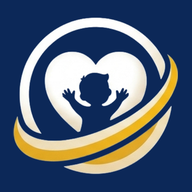
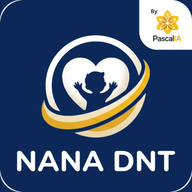
fix(nutricion): el logotipo es el lockup completo, no el emblema recortado
Me habia pasado de largo. Al quitar la insignia de PascalIA que salia cortada
en el encabezado, recorte tambien la palabra NANA DNT y deje solo el emblema.
El logotipo del aplicativo es el que entrego la Coordinacion: recuadro azul,
emblema, insignia y el nombre. Ese mismo va en todas las pantallas.

- Se elimina nana-dnt-simbolo.png y su generacion. Ya no hay dos versiones
  compitiendo: la proxima vez no hay de donde equivocarse.
- Encabezado, tarjeta del portal y acceso rapido usan nana-dnt-logo.png.
- El icono del encabezado sube de 46 a 52 px (44 en movil): lleva la palabra
  adentro y encogerlo la vuelve ilegible. Sigue cabiendo en la barra de 64 px.
- icono-180 y 192 se regeneran desde el lockup, a sangre. icono-32 tambien,
  aunque a ese tamano la palabra no se lee: es una limitacion del formato, no
  del archivo.
- El generador compone el azul debajo antes de escalar, para que al ir a
  sangre las esquinas que en el original eran transparentes queden azules.

Verificado con Chromium: el logotipo carga en el encabezado (52 px, 44 en
movil, sin desbordar a 390 px), en la tarjeta del portal y en el acceso
rapido. Las siete vistas, el pie de PascalIA, la calculadora de FTLC, los
perimetros y los 139 controles de los motores siguen pasando. 0 errores.

Claude-Session: https://claude.ai/code/session_014rewXf9nkCGvp4GxEmHCRC

diff --git a/index.html b/index.html
@@ -778,7 +778,7 @@ body {
       <div class="prog-accent" style="background: linear-gradient(90deg, #0C2858, #E1A823);"></div>
       <div class="prog-body">
         <div class="prog-top">
-          <div class="prog-icon" style="background:none;"><img src="NUTRICIÓN NANA DNT/assets/nana-dnt-simbolo.png" alt="" style="width:42px;height:42px;display:block;border-radius:10px"></div>
+          <div class="prog-icon" style="background:none;"><img src="NUTRICIÓN NANA DNT/assets/nana-dnt-logo.png" alt="" style="width:42px;height:42px;display:block;border-radius:10px"></div>
           <span class="prog-badge live">Activo</span>
         </div>
         <div class="prog-name">NANA DNT · Seguimiento Nutricional Infantil</div>
@@ -928,7 +928,7 @@ body {
       <div><div class="quick-name">Ejecución EBS · Res. 0900</div><div class="quick-sub">15 soportes · Expedientes · PISIS</div></div>
     </a>
     <a href="NUTRICIÓN NANA DNT/index.html" class="quick-card">
-      <span class="quick-icon"><img src="NUTRICIÓN NANA DNT/assets/nana-dnt-simbolo.png" alt="" style="width:26px;height:26px;display:block;border-radius:6px"></span>
+      <span class="quick-icon"><img src="NUTRICIÓN NANA DNT/assets/nana-dnt-logo.png" alt="" style="width:26px;height:26px;display:block;border-radius:6px"></span>
       <div><div class="quick-name">NANA DNT</div><div class="quick-sub">Riesgo y DNT aguda · 0-59 meses</div></div>
     </a>
     <a href="SEGUIMIENTO RECURSOS SER124DREC/Seguimiento_Recursos_SER124DREC.html" class="quick-card">

diff --git a/NUTRICIÓN NANA DNT/app/estilos.css b/NUTRICIÓN NANA DNT/app/estilos.css
@@ -118,13 +118,15 @@ a { color: var(--menta); }
   box-shadow: 0 2px 14px rgba(15,138,126,.10);
 }
 .marca { display: flex; align-items: center; gap: 12px; text-decoration: none; color: inherit; }
-/* El logotipo trae su propio fondo azul y sus esquinas redondeadas */
+/* El logotipo completo: trae su propio fondo azul y sus esquinas redondeadas.
+   Va al mayor tamaño que permite la barra de 64 px, porque lleva la palabra
+   NANA DNT dentro y encogerlo la vuelve ilegible. */
 .marca-icono {
-  width: 46px; height: 46px; flex-shrink: 0; display: block;
+  width: 52px; height: 52px; flex-shrink: 0; display: block;
   object-fit: contain;
   filter: drop-shadow(0 3px 10px rgba(12,40,88,.30));
 }
-@media (max-width: 720px) { .marca-icono { width: 40px; height: 40px; } }
+@media (max-width: 720px) { .marca-icono { width: 44px; height: 44px; } }
 .marca-txt strong { display: block; font-size: .96rem; font-weight: 700; letter-spacing: -.01em; }
 .marca-txt span   { display: block; font-size: .72rem; color: var(--texto-3); }
 .enc-sep { flex: 1; }

diff --git a/NUTRICIÓN NANA DNT/index.html b/NUTRICIÓN NANA DNT/index.html
@@ -16,8 +16,8 @@
 
 <header class="enc">
   <a class="marca" href="index.html">
-    <img class="marca-icono" src="assets/nana-dnt-simbolo.png"
-         alt="NANA DNT" width="46" height="46">
+    <img class="marca-icono" src="assets/nana-dnt-logo.png"
+         alt="NANA DNT" width="52" height="52">
     <div class="marca-txt">
       <strong>NANA DNT</strong>
       <span>Seguimiento Nutricional Infantil · ESE HRNO</span>

diff --git a/NUTRICIÓN NANA DNT/assets/generar-iconos.py b/NUTRICIÓN NANA DNT/assets/generar-iconos.py
@@ -3,126 +3,65 @@
 
     python3 assets/generar-iconos.py        (desde la carpeta del módulo)
 
-Por qué existe
---------------
-El «símbolo» del encabezado se había recortado a ojo del lockup completo y se
-llevaba media insignia de PascalIA en la esquina: en 46 px eso se veía como un
-recuadro blanco con un pedazo de palabra. Y el recorte redondeado dejaba un
-filete blanco de un píxel sobre la curva de las esquinas.
+El logotipo del aplicativo es el lockup completo —recuadro azul, emblema,
+insignia de PascalIA y la palabra NANA DNT—, tal como lo entregó la
+Coordinación. Todas las pantallas usan ese mismo archivo: no hay una versión
+recortada para el encabezado.
 
-Aquí el recuadro azul se dibuja de cero y el emblema se localiza por su
-contenido real, así que ninguna de las dos cosas puede volver a pasar. La firma
-de PascalIA no se pierde: va al pie de todas las pantallas y dentro del lockup
-grande de la pantalla de ingreso.
+Lo único que cambia entre salidas es el recorte de las esquinas:
+
+  redondeado  el recuadro conserva su curva y las esquinas van transparentes.
+              Sirve donde el logotipo se posa sobre el fondo de la página.
+  a sangre    el azul llega hasta el borde. Es lo que necesitan los iconos de
+              pantalla de inicio: iOS y Android aplican su propia máscara, y un
+              borde transparente se vería como un halo alrededor del icono.
+
+La máscara redondeada se encoge dos píxeles porque el archivo original trae una
+hebra blanca sobre la curva, resto de haberlo recortado contra fondo claro.
 """
 
 from PIL import Image, ImageDraw, ImageFilter
 
-ORIGEN = 'assets/nana-dnt-logo-original.png'   # el lockup tal como llegó
+ORIGEN = 'assets/nana-dnt-logo-original.png'
 NAVY = (12, 40, 88, 255)
-RADIO = 86 / 512     # el redondeo del recuadro original, en proporción del lado
-OCUPA = 0.86         # cuánto del lado ocupa el emblema dentro del símbolo
+RADIO = 86 / 512      # el redondeo del recuadro original, en proporción del lado
 
 
-def mascara(lado, redondeado=True):
-    """Silueta del recuadro. Sin redondear va a sangre: iOS y Android aplican su
-    propia máscara y un borde transparente se vería como un halo."""
+def silueta(lado, redondeado=True):
     m = Image.new('L', (lado, lado), 0)
     d = ImageDraw.Draw(m)
     if redondeado:
         d.rounded_rectangle([0, 0, lado - 1, lado - 1], radius=round(lado * RADIO), fill=255)
+        m = m.filter(ImageFilter.MinFilter(5))   # deja fuera la hebra blanca del borde
     else:
         d.rectangle([0, 0, lado - 1, lado - 1], fill=255)
     return m
 
 
-def recuadro(lado, redondeado=True):
-    tela = Image.new('RGBA', (lado, lado), (0, 0, 0, 0))
-    tela.paste(NAVY, (0, 0, lado, lado), mascara(lado, redondeado))
-    return tela
-
-
-def emblema(origen):
-    """El aro, el corazón, el niño y la cinta dorada: sin insignia y sin texto.
-
-    Devuelve un recorte cuadrado centrado en el emblema, con su fondo azul.
-    """
-    im = origen.convert('RGBA').copy()
-    w, h = im.size
-    esc = w / 512
-
-    # La insignia de PascalIA ocupa la esquina superior derecha y no toca el
-    # emblema: entre las dos hay azul limpio. Se tapa antes de medir.
-    ImageDraw.Draw(im).rectangle([round(366 * esc), 0, w - 1, round(150 * esc)], fill=NAVY)
-
-    pix = im.load()
-    # El emblema es claro sobre azul oscuro, así que la luminancia lo aísla. El
-    # margen deja fuera el filete de las esquinas y la banda del texto.
-    caja = (round(26 * esc), round(26 * esc), round(486 * esc), round(372 * esc))
-    x0, y0, x1, y1 = w, h, -1, -1
-    for y in range(caja[1], caja[3]):
-        for x in range(caja[0], caja[2]):
-            r, g, b, a = pix[x, y]
-            if a > 128 and (0.299 * r + 0.587 * g + 0.114 * b) > 90:
-                x0, x1 = min(x0, x), max(x1, x)
-                y0, y1 = min(y0, y), max(y1, y)
-    if x1 < 0:
-        raise SystemExit('No se encontró el emblema en ' + ORIGEN)
-
-    # Recorte cuadrado centrado: así el aro queda en el medio del recuadro
-    # aunque la cinta dorada sea más ancha que alta.
-    lado = max(x1 - x0, y1 - y0) + 1
-    cx, cy = (x0 + x1) / 2, (y0 + y1) / 2
-    rec = im.crop((round(cx - lado / 2), round(cy - lado / 2),
-                   round(cx + lado / 2), round(cy + lado / 2)))
-    return rec, (x0, y0, x1, y1)
-
-
-def simbolo(origen, lado, redondeado=True):
-    arte, _ = emblema(origen)
-    med = round(lado * OCUPA)
-    capa = Image.new('RGBA', (lado, lado), (0, 0, 0, 0))
-    capa.paste(arte.resize((med, med), Image.LANCZOS), ((lado - med) // 2, (lado - med) // 2))
-    tela = Image.alpha_composite(recuadro(lado, redondeado), capa)
-    # El recorte trae su propio azul: recortarlo contra la silueta evita que
-    # asome por las esquinas redondeadas.
-    tela.putalpha(mascara(lado, redondeado))
-    return tela
-
-
-def lockup(origen, lado=512):
-    """El logotipo completo —emblema, texto e insignia— sin el filete blanco.
-
-    La máscara se encoge dos píxeles: el original traía una hebra blanca sobre
-    la curva de las esquinas, resto de haberlo recortado contra fondo claro.
-    """
-    im = origen.convert('RGBA').resize((lado, lado), Image.LANCZOS)
-    m = mascara(lado).filter(ImageFilter.MinFilter(5))
-    im.putalpha(m)
-    return im
+def logotipo(origen, lado, redondeado=True):
+    # El azul de fondo se pone debajo: al ir a sangre, las esquinas que en el
+    # original eran transparentes tienen que quedar azules, no huecas.
+    fondo = Image.new('RGBA', origen.size, NAVY)
+    plano = Image.alpha_composite(fondo, origen.convert('RGBA'))
+    salida = plano.resize((lado, lado), Image.LANCZOS)
+    salida.putalpha(silueta(lado, redondeado))
+    return salida
 
 
 def principal():
     origen = Image.open(ORIGEN)
-    arte, (x0, y0, x1, y1) = emblema(origen)
-    print('origen  %s %s' % (ORIGEN, origen.size))
-    print('emblema x %d-%d  y %d-%d  →  recorte cuadrado %s' % (x0, x1, y0, y1, arte.size))
-    print()
+    print('origen %s %s\n' % (ORIGEN, origen.size))
 
     salidas = [
-        ('assets/nana-dnt-simbolo.png', 512, True,  'encabezado, tarjeta del portal y PDF'),
-        ('assets/icono-32.png',          32, True,  'pestaña del navegador'),
-        ('assets/icono-180.png',        180, False, 'pantalla de inicio de iOS'),
-        ('assets/icono-192.png',        192, False, 'pantalla de inicio de Android'),
+        ('assets/nana-dnt-logo.png', 512, True,  'encabezado, ingreso y tarjeta del portal'),
+        ('assets/icono-32.png',       32, True,  'pestaña del navegador'),
+        ('assets/icono-180.png',     180, False, 'pantalla de inicio de iOS'),
+        ('assets/icono-192.png',     192, False, 'pantalla de inicio de Android'),
     ]
-    for ruta, med, redondeado, para in salidas:
-        simbolo(origen, med, redondeado).save(ruta, optimize=True)
-        print('  %-30s %3d px  %-11s %s' % (ruta, med,
+    for ruta, lado, redondeado, para in salidas:
+        logotipo(origen, lado, redondeado).save(ruta, optimize=True)
+        print('  %-28s %3d px  %-11s %s' % (ruta, lado,
               'redondeado' if redondeado else 'a sangre', para))
-
-    lockup(origen).save('assets/nana-dnt-logo.png', optimize=True)
-    print('  %-30s %3d px  %-11s %s' % ('assets/nana-dnt-logo.png', 512,
-          'redondeado', 'pantalla de ingreso, con la insignia'))
 
 
 if __name__ == '__main__':

diff --git a/NUTRICIÓN NANA DNT/README.md b/NUTRICIÓN NANA DNT/README.md
@@ -67,8 +67,7 @@ NUTRICIÓN NANA DNT/
 ├── assets/                 ← logotipo NANA DNT, firma PascalIA e iconos
 │   ├── nana-dnt-logo-original.png ← el lockup tal como llegó: la fuente de todo
 │   ├── generar-iconos.py   ← regenera los iconos (python3 assets/generar-iconos.py)
-│   ├── nana-dnt-logo.png   ← lockup completo, para la pantalla de ingreso
-│   ├── nana-dnt-simbolo.png← sólo el emblema, para el encabezado y el PDF
+│   ├── nana-dnt-logo.png   ← el logotipo, el mismo en todas las pantallas
 │   ├── icono-{32,180,192}.png ← pestaña del navegador y pantalla de inicio
 │   └── pascalia.png       ← firma del pie, igual que en Flota Vehicular
 ├── libs/                   ← Chart.js, SheetJS y jsPDF locales
